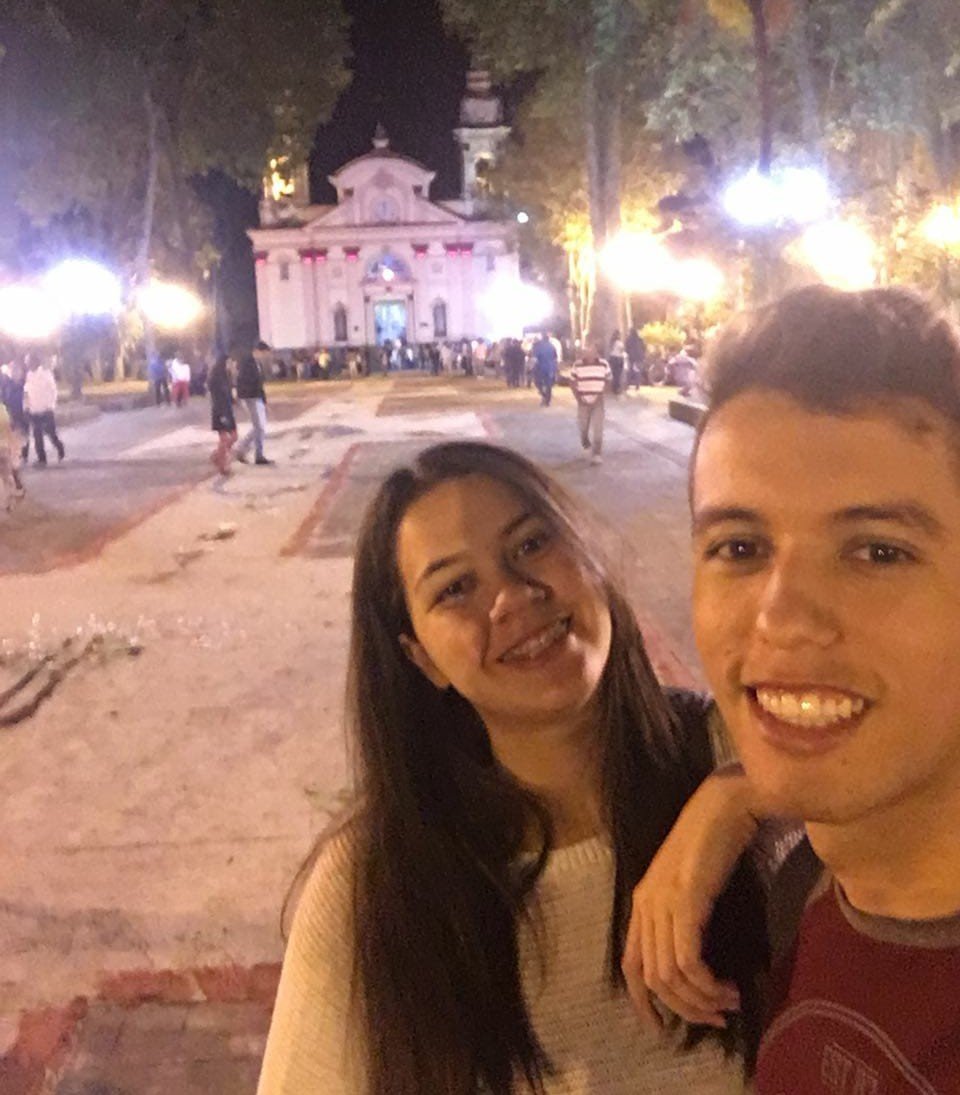
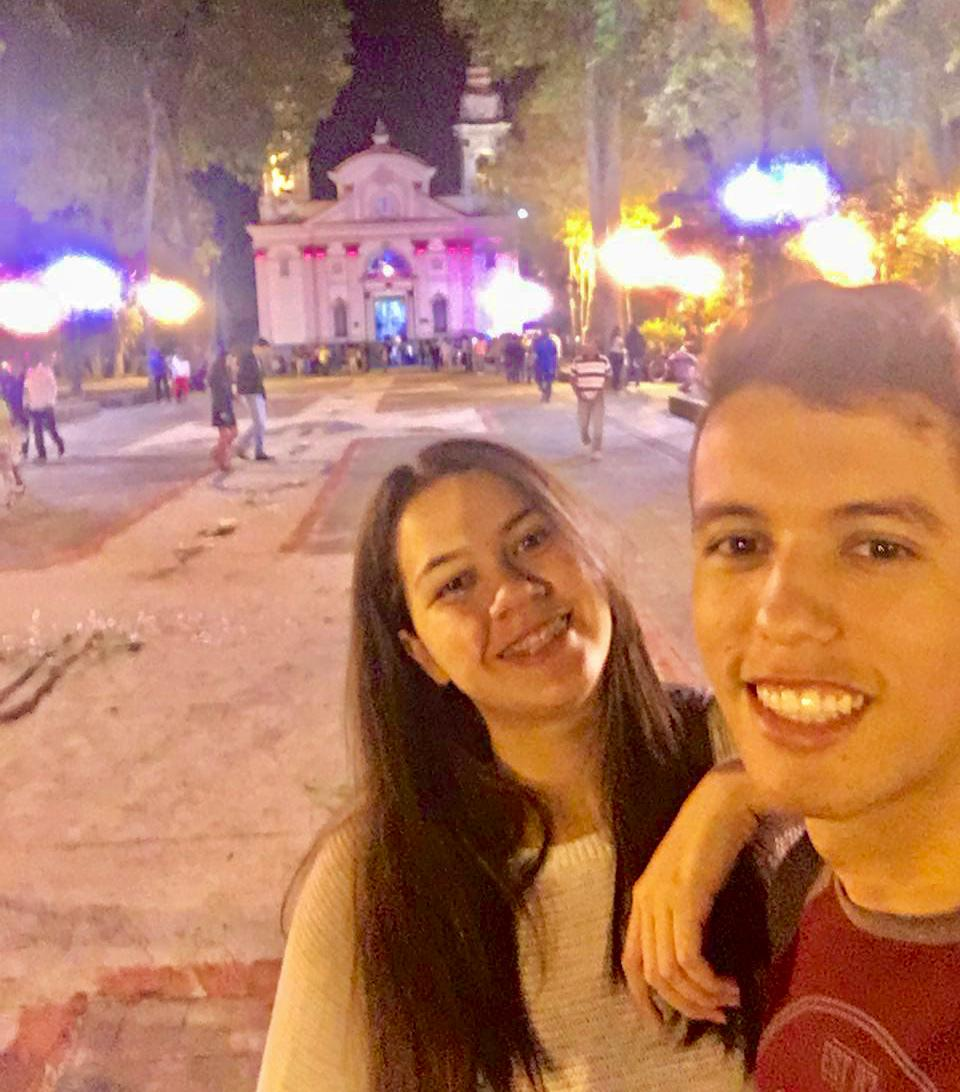
[ADD] Inclusão das descrições dos eventos [MOD] Alterando a tela de noivos para casal e foto casal-20 editada.

diff --git a/index.html b/index.html
@@ -79,31 +79,21 @@
       </div>
       <div class="ww-section" id="couple">
         <div class="container">
-          <h2 class="h1 text-center pb-3 ww-title" data-aos="zoom-in-down" data-aos-duration="1000">Noiva & Noivo</h2>
+          <h2 class="h1 text-center pb-3 ww-title" data-aos="zoom-in-down" data-aos-duration="1000">Casal</h2>
           <div class="row text-center">
             <div class="col-md-6">
-              <div class="mt-3"><img class="img-fluid" src="images/julia.jpeg" alt="Bride" data-aos="flip-right"
+              <div class="mt-3"><img class="img-fluid" src="images/casal-20.jpeg" alt="Bride" data-aos="flip-right"
                   data-aos-duration="1000" style="width:435px" />
-                <p class="pt-3 text-left text-muted">Hi I am Julia,Lorem ipsum dolor sit amet consectetur adipiscing,
-                  elit nulla enim arcu dictum lobortis, ac congue non hendrerit accumsan. Ut penatibus litora platea mi
-                  mus tempus eros proin, maecenas hac eget hendrerit inceptos per tempor sodales, id varius nulla
-                  commodo augue lectus pulvinar. Etiam suscipit leo sollicitudin vivamus tempor himenaeos vitae mattis
-                  dictum posuere, tincidunt aenean litora aptent facilisis eu est.</p>
-                <h3 class="h2 ww-title">Julia</h3>
-                <!-- <div class="ww-social-links"><a class="btn btn-link" href="#"><i class="fab fa-facebook-f" aria-hidden="true"></i></a><a class="btn btn-link" href="#"><i class="fab fa-twitter" aria-hidden="true"></i></a><a class="btn btn-link" href="#"><i class="fab fa-google-plus-g" aria-hidden="true"></i></a><a class="btn btn-link" href="#"><i class="fab fa-instagram" aria-hidden="true"></i></a></div> -->
+
               </div>
             </div>
             <div class="col-md-6">
-              <div class="mt-3"><img class="img-fluid" src="images/joao.jpeg" alt="Groom" data-aos="flip-left"
-                  data-aos-duration="1000" />
-                <p class="pt-3 text-left text-muted">Hi I am João,Lorem ipsum dolor sit amet consectetur adipiscing,
-                  elit nulla enim arcu dictum lobortis, ac congue non hendrerit accumsan. Ut penatibus litora platea mi
-                  mus tempus eros proin, maecenas hac eget hendrerit inceptos per tempor sodales, id varius nulla
-                  commodo augue lectus pulvinar. Etiam suscipit leo sollicitudin vivamus tempor himenaeos vitae mattis
-                  dictum posuere, tincidunt aenean litora aptent facilisis eu est.</p>
-                <h3 class="h2 ww-title">João Carvalho</h3>
-                <!-- <div class="ww-social-links"><a class="btn btn-link" href="#"><i class="fab fa-facebook-f" aria-hidden="true"></i></a><a class="btn btn-link" href="#"><i class="fab fa-twitter" aria-hidden="true"></i></a><a class="btn btn-link" href="#"><i class="fab fa-google-plus-g" aria-hidden="true"></i></a><a class="btn btn-link" href="#"><i class="fab fa-instagram" aria-hidden="true"></i></a></div> -->
-              </div>
+              <p class="pt-3 text-left text-muted">Hi I am João,Lorem ipsum dolor sit amet consectetur adipiscing,
+                elit nulla enim arcu dictum lobortis, ac congue non hendrerit accumsan. Ut penatibus litora platea mi
+                mus tempus eros proin, maecenas hac eget hendrerit inceptos per tempor sodales, id varius nulla
+                commodo augue lectus pulvinar. Etiam suscipit leo sollicitudin vivamus tempor himenaeos vitae mattis
+                dictum posuere, tincidunt aenean litora aptent facilisis eu est.</p>
+              <!-- <div class="ww-social-links"><a class="btn btn-link" href="#"><i class="fab fa-facebook-f" aria-hidden="true"></i></a><a class="btn btn-link" href="#"><i class="fab fa-twitter" aria-hidden="true"></i></a><a class="btn btn-link" href="#"><i class="fab fa-google-plus-g" aria-hidden="true"></i></a><a class="btn btn-link" href="#"><i class="fab fa-instagram" aria-hidden="true"></i></a></div> -->
             </div>
           </div>
         </div>
@@ -120,15 +110,17 @@
                       href="https://www.google.com/maps/place/Santu%C3%A1rio+Bas%C3%ADlica+Senhor+Bom+Jesus+de+Trememb%C3%A9/@-22.959391,-45.552218,17z/data=!3m1!4b1!4m5!3m4!1s0x94ccf71347bee355:0x34f557130f1d5a24!8m2!3d-22.959396!4d-45.550024"><i
                         class="text-muted fas fa-map-marker-alt"></i><span class="pl-2 text-muted">Igreja Bom Jesus,
                         Praça Padre Luiz Balmes, Centro, Tremembé - SP</span></a></li>
-                  <li class="pt-2"><a href="convite/Casamento Julia & João.ics" class="underline"><i
+                  <li class="pt-2"><a href="convite/Casamento Julia & João.ics" class="underline"
+                      title="Clique aqui para adiconar a data ao seu calendário"><i
                         class="text-muted far fa-calendar-alt"></i><span class="pl-2 text-muted">22 Out 2022,
                         19:00</span></a></li>
                 </ul>
-                <p>Lorem ipsum dolor sit amet consectetur adipiscing, elit nulla enim arcu dictum lobortis, ac congue
-                  non hendrerit accumsan. Ut penatibus litora platea mi mus tempus eros proin, maecenas hac eget
-                  hendrerit inceptos per tempor sodales, id varius nulla commodo augue lectus pulvinar. Etiam suscipit
-                  leo sollicitudin vivamus tempor himenaeos vitae mattis dictum posuere, tincidunt aenean litora aptent
-                  facilisis eu est.</p>
+                <p>Aqui será o local onde oficializaremos nosso matrimônio em Cristo e onde falaramos o Sim um para o
+                  outro. A igreja do Bom Jesus de Tremembé foi construída pelo fundador da cidade, capitão-mor Manoel da
+                  Costa Cabral, em 1672, após concessão de licença para construção da igreja pela Câmara Eclesiástica do
+                  Rio de Janeiro em terras de sua fazenda, chamada Tremembé. A igreja, que à época era uma capela,
+                  passou por ampliações em 1795. Desde sua inauguração, a igreja abriga uma imagem do Senhor Bom Jesus.
+                </p>
               </div>
             </div>
             <div class="col-md-5 col-sm-12">
@@ -145,15 +137,17 @@
                       href="https://www.google.com/maps/place/Espa%C3%A7o+Crozariol+Buffet+e+eventos/@-22.9432242,-45.5824071,17z/data=!3m1!4b1!4m5!3m4!1s0x94ccf64dd3c89af9:0x6c8284abecc1c8a8!8m2!3d-22.9432292!4d-45.5802131"><i
                         class="text-muted fas fa-map-marker-alt "></i><span class="pl-2 text-muted">Crozariol, Rod.
                         Pedro Celete, 3221, Tremembé - SP</span></a></li>
-                  <li class="pt-2"><a href="convite/Casamento Julia & João.ics" class="underline"><i
+                  <li class="pt-2"><a href="convite/Casamento Julia & João.ics" class="underline"
+                      title="Clique aqui para adiconar a data ao seu calendário"><i
                         class="text-muted far fa-calendar-alt"></i><span class="pl-2 text-muted">22 Out 2022,
                         20:30</span></a></li>
                 </ul>
-                <p>Lorem ipsum dolor sit amet consectetur adipiscing, elit nulla enim arcu dictum lobortis, ac congue
-                  non hendrerit accumsan. Ut penatibus litora platea mi mus tempus eros proin, maecenas hac eget
-                  hendrerit inceptos per tempor sodales, id varius nulla commodo augue lectus pulvinar. Etiam suscipit
-                  leo sollicitudin vivamus tempor himenaeos vitae mattis dictum posuere, tincidunt aenean litora aptent
-                  facilisis eu est.</p>
+                <p>Uma empresa familiar séria e íntegra que desde 1999 vêm realizando eventos & sonhos. Oferecendo toda
+                  infraestrutura necessária para que nossa festa aconteça de forma tranquila e segura. Com uma
+                  arquitetura em estilo Europeu rústico encantando a todos vocês, destaque para a Natureza exuberante e
+                  um Espaço que contará com DJ, pista de dança, ilhas gastronômicas (canapé, salgados, buteco e massas),
+                  espaço kids com monitora, open bar com drinks e cervejas e diversas outras comilanças e atrativos
+                  disponiveis para vocês comemorarem com a gente.</p>
               </div>
             </div>
             <div class="col-md-5 col-sm-12">
